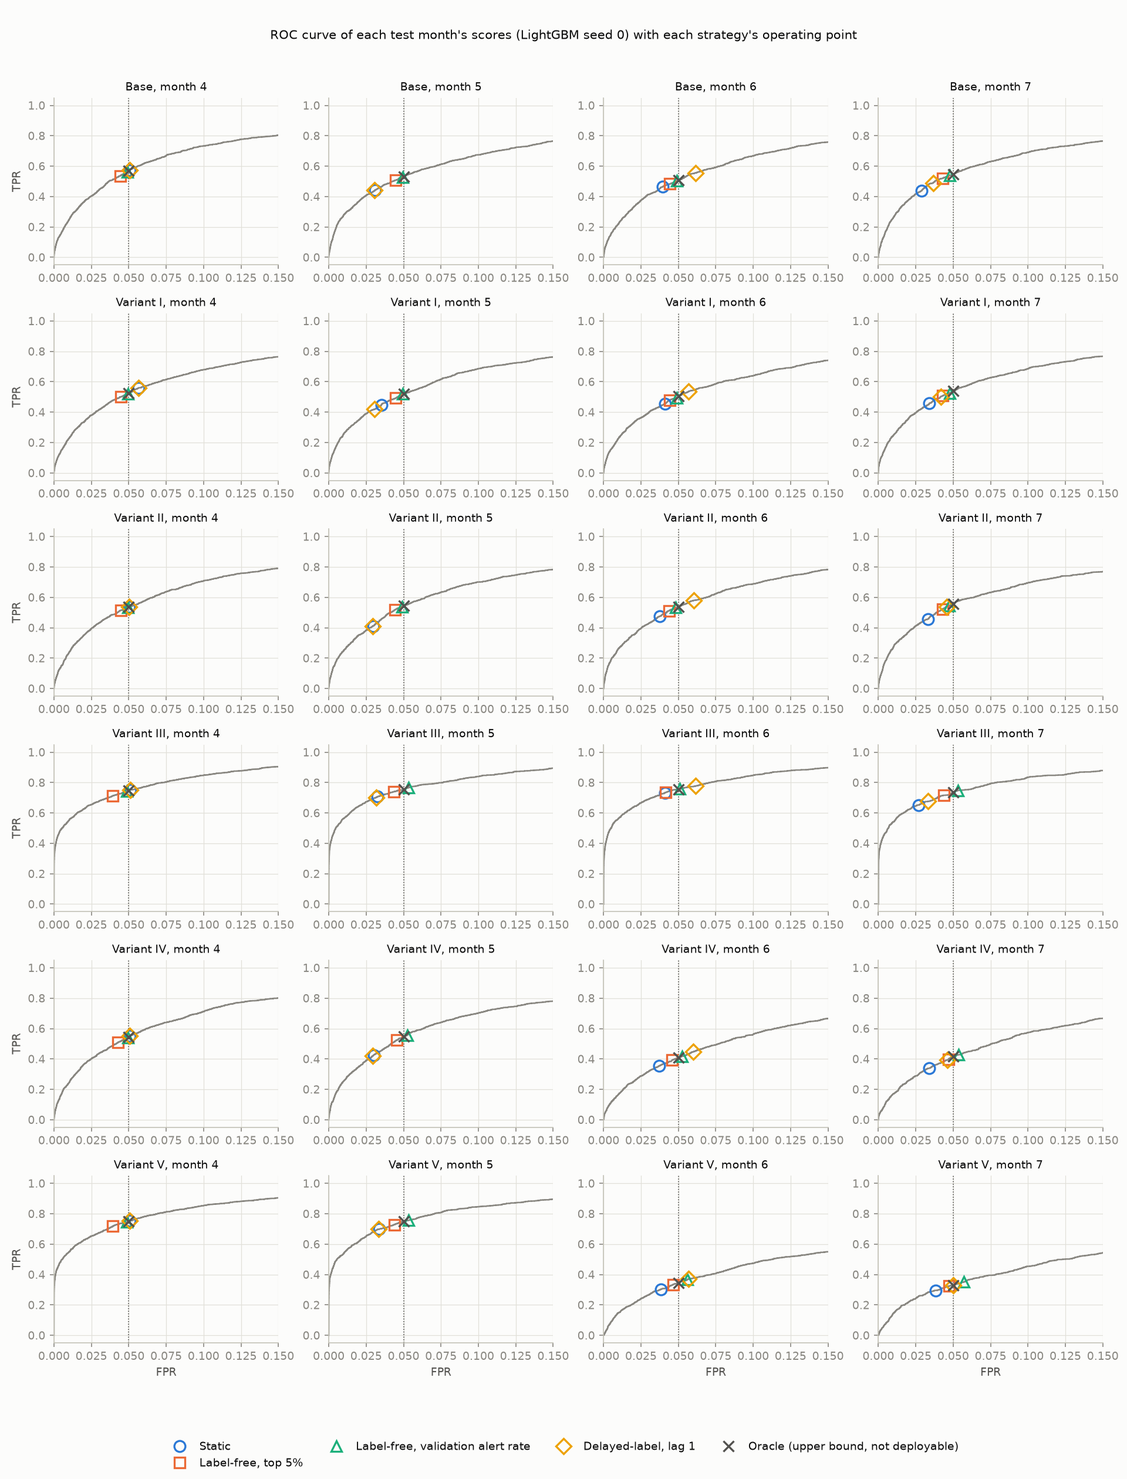
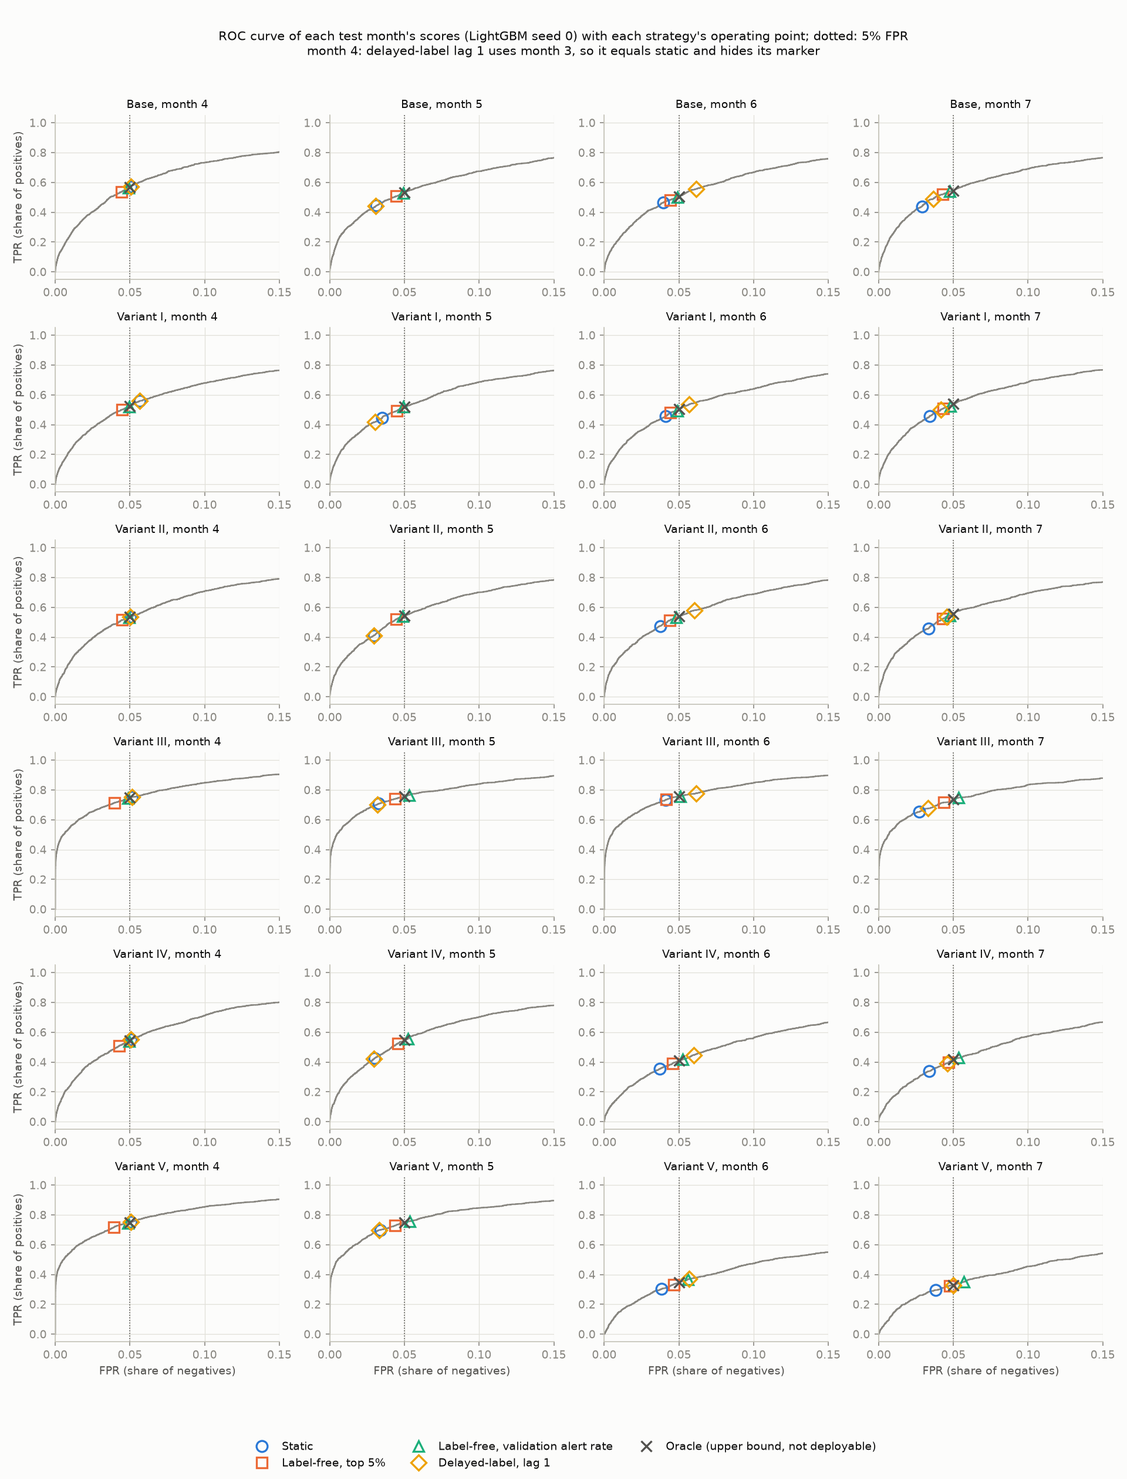
Visual check: by-month figures in a 3-column grid, clearer ROC axes and titles, 'at 5% FPR' after the shuffled TPR
Plotted data dumped before and after: byte-identical for all four figures.
No change under results/ or results_posthoc/. Details in reports/visual_check.md.

diff --git a/src/report_figures.py b/src/report_figures.py
@@ -38,41 +38,86 @@ def _variants(summary):
     return [v for v in VARIANTS if v in set(summary.variant)]
 
 
+NCOL = 3  # variants per row: one row of six panels is too wide to read at page width
+LAG1_NOTE = "month 4: delayed-label lag 1 uses month 3, so it equals static and hides its marker"
+
+
+def _grid(plt, n_variants, rows_per_variant, height):
+    nrow = -(-n_variants // NCOL) * rows_per_variant
+    fig, axes = plt.subplots(nrow, NCOL, figsize=(3.4 * NCOL, height * nrow), sharex=True, squeeze=False)
+    for ax in axes.ravel()[n_variants * rows_per_variant:]:
+        ax.set_visible(False)
+    return fig, axes
+
+
+def _share_y(axes):
+    lo = min(ax.get_ylim()[0] for ax in axes)
+    hi = max(ax.get_ylim()[1] for ax in axes)
+    for ax in axes:
+        ax.set_ylim(lo, hi)
+    for ax in axes:
+        if ax.get_subplotspec().colspan.start > 0:
+            ax.tick_params(labelleft=False)
+
+
+def _legend(fig, ax):
+    h, lab = ax.get_legend_handles_labels()
+    fig.legend(h, lab, loc="lower center", ncol=3)
+
+
 def by_month(summary, ci, metric, ylabel, path, target_line=False, title="", scale=100):
     plt = setup()
     vs = _variants(summary)
-    fig, axes = plt.subplots(1, len(vs), figsize=(3.1 * len(vs), 3.2), sharey=True, squeeze=False)
-    for ax, v in zip(axes[0], vs):
+    fig, axes = _grid(plt, len(vs), 1, 2.7)
+    used = []
+    for k, v in enumerate(vs):
+        ax = axes[k // NCOL, k % NCOL]
+        used.append(ax)
         _panel(ax, summary, ci, v, metric, scale=scale)
         if target_line:
             ax.axhline(100 * PRIMARY_TARGET, color="#52514e", linewidth=0.8, linestyle=":")
         ax.set_title(v, fontsize=9)
-        ax.set_xlabel("test month")
-    axes[0, 0].set_ylabel(ylabel)
-    h, lab = axes[0, 0].get_legend_handles_labels()
-    fig.legend(h, lab, loc="lower center", ncol=len(lab))
+        ax.tick_params(labelbottom=True)
+        if k % NCOL == 0:
+            ax.set_ylabel(ylabel)
+        if k >= len(vs) - NCOL:
+            ax.set_xlabel("test month")
+    _share_y(used)
+    _legend(fig, used[0])
     fig.suptitle(title, fontsize=10)
-    fig.tight_layout(rect=(0, 0.1, 1, 0.93))
+    fig.tight_layout(rect=(0, 0.09, 1, 1))
     fig.savefig(path, dpi=150)
     plt.close(fig)
 
 
 def tpr_with_fpr(summary, ci, path):
+    """Each variant gets a realized FPR panel with its TPR panel directly below it."""
     plt = setup()
     vs = _variants(summary)
-    fig, axes = plt.subplots(2, len(vs), figsize=(3.1 * len(vs), 5.6), sharex=True, sharey="row", squeeze=False)
-    for j, v in enumerate(vs):
-        _panel(axes[0, j], summary, ci, v, "realized_fpr")
-        axes[0, j].axhline(100 * PRIMARY_TARGET, color="#52514e", linewidth=0.8, linestyle=":")
-        _panel(axes[1, j], summary, ci, v, "tpr")
-        axes[0, j].set_title(v, fontsize=9)
-        axes[1, j].set_xlabel("test month")
-    axes[0, 0].set_ylabel("realized FPR, %")
-    axes[1, 0].set_ylabel("TPR, %")
-    h, lab = axes[0, 0].get_legend_handles_labels()
-    fig.legend(h, lab, loc="lower center", ncol=len(lab))
-    fig.suptitle("TPR by month, with the realized FPR it was bought at (LightGBM, seed mean; bars: seed 0 bootstrap 95% CI)", fontsize=10)
-    fig.tight_layout(rect=(0, 0.06, 1, 0.95))
+    fig, axes = _grid(plt, len(vs), 2, 2.4)
+    fpr_axes, tpr_axes = [], []
+    for k, v in enumerate(vs):
+        r, c = 2 * (k // NCOL), k % NCOL
+        top, bottom = axes[r, c], axes[r + 1, c]
+        fpr_axes.append(top)
+        tpr_axes.append(bottom)
+        _panel(top, summary, ci, v, "realized_fpr")
+        top.axhline(100 * PRIMARY_TARGET, color="#52514e", linewidth=0.8, linestyle=":")
+        _panel(bottom, summary, ci, v, "tpr")
+        top.set_title(v, fontsize=9)
+        bottom.tick_params(labelbottom=True)
+        if c == 0:
+            top.set_ylabel("realized FPR, %")
+            bottom.set_ylabel("TPR, %")
+        if k >= len(vs) - NCOL:
+            bottom.set_xlabel("test month")
+    _share_y(fpr_axes)
+    _share_y(tpr_axes)
+    _legend(fig, fpr_axes[0])
+    fig.suptitle("TPR by month (lower panel), with the realized FPR it was bought at (upper panel)\n"
+                 "LightGBM, seed mean; bars: seed 0 bootstrap 95% CI, often shorter than the marker; dotted: 5% target\n"
+                 + LAG1_NOTE, fontsize=9)
+    fig.tight_layout(rect=(0, 0.05, 1, 1))
     fig.savefig(path, dpi=150)
     plt.close(fig)
 
@@ -88,7 +133,7 @@ def roc_points(metrics, path):
             curves[(v, month)] = (z["score"][k], z["label"][k])
         for r in m[m.variant == v].itertuples():
             points[(v, r.month, r.strategy)] = r.threshold
-    return plot_roc_operating_points(curves, points, path, title="ROC curve of each test month's scores (LightGBM seed 0) with each strategy's operating point")
+    return plot_roc_operating_points(curves, points, path, title="ROC curve of each test month's scores (LightGBM seed 0) with each strategy's operating point; dotted: 5% FPR\n" + LAG1_NOTE)
 
 
 def main():
@@ -96,11 +141,13 @@ def main():
     ci = _sel(pd.read_csv(config.RESULTS / "ci.csv"))
     metrics = pd.read_csv(config.RESULTS / "metrics.csv")
     config.FIGURES.mkdir(parents=True, exist_ok=True)
-    note = "(LightGBM, seed mean; bars: seed 0 bootstrap 95% CI; dotted: 5% target)"
-    by_month(summary, ci, "realized_fpr", "realized FPR, %", config.FIGURES / "realized_fpr_by_month.png", True, f"Realized FPR by test month {note}")
+    note = "LightGBM, seed mean; bars: seed 0 bootstrap 95% CI, often shorter than the marker"
+    by_month(summary, ci, "realized_fpr", "realized FPR, %", config.FIGURES / "realized_fpr_by_month.png", True,
+             f"Realized FPR by test month (dotted: 5% target)\n{note}\n{LAG1_NOTE}")
     tpr_with_fpr(summary, ci, config.FIGURES / "tpr_by_month.png")
     by_month(summary, ci, "fpr_ratio", "FPR ratio (lowest / highest)", config.FIGURES / "fpr_ratio_by_month.png", False,
-             "Age-group FPR ratio by test month (LightGBM, seed mean; bars: seed 0 bootstrap 95% CI)", scale=1)
+             f"Age-group FPR ratio by test month (older group: customer_age {PRIMARY_AGE.replace('>=', '>= ')}; 1 means equal group FPRs)\n{note}\n{LAG1_NOTE}",
+             scale=1)
     roc_points(metrics, config.FIGURES / "roc_operating_points.png")
     print(f"wrote figures to {config.FIGURES}")
 

diff --git a/src/figures.py b/src/figures.py
@@ -1,6 +1,7 @@
 """Figures built from saved predictions and thresholds."""
 
 import numpy as np
+from matplotlib.ticker import MultipleLocator
 from sklearn.metrics import roc_curve
 
 from src.metrics import confusion, rates
@@ -42,18 +43,19 @@ def plot_roc_operating_points(curves, points, path, max_fpr=0.15, title=None):
                         markeredgecolor=color, markeredgewidth=1.6, markersize=9, label=LABELS.get(strategy, strategy))
             panel_points = [xy[0] for (v, m, _), xy in coords.items() if (v, m) == (variant, month)]
             ax.set_xlim(0, max([max_fpr] + [1.1 * x for x in panel_points]))
+            ax.xaxis.set_major_locator(MultipleLocator(0.05))
             ax.set_title(f"{variant}, month {month}", fontsize=9)
             if i == len(variants) - 1:
-                ax.set_xlabel("FPR")
+                ax.set_xlabel("FPR (share of negatives)")
             if j == 0:
-                ax.set_ylabel("TPR")
+                ax.set_ylabel("TPR (share of positives)")
     handles, labels = [], []
     for ax in axes.ravel():
         for h, lab in zip(*ax.get_legend_handles_labels()):
             if lab not in labels:
                 handles.append(h)
                 labels.append(lab)
-    fig.legend(handles, labels, loc="lower center", ncol=min(len(labels), 4))
+    fig.legend(handles, labels, loc="lower center", ncol=min(len(labels), 3))
     if title:
         fig.suptitle(title, fontsize=10)
     fig.tight_layout(rect=(0, 0.06, 1, 0.97 if title else 1))

diff --git a/reports/visual_check.md b/reports/visual_check.md
@@ -1,0 +1,21 @@
+# Visual check of figures and the one-page PDF
+
+Done 2026-10-18. Every file in figures/ and reports/one_pager.pdf was rendered to an image and inspected. Checks: legibility at page width, axis labels and units, the oracle labelled as an upper bound wherever it appears, no TPR without its realized FPR, and the PDF on one page with nothing cut off.
+
+## Findings and fixes
+
+| File | Problem found | Fix |
+|---|---|---|
+| realized_fpr_by_month.png, fpr_ratio_by_month.png | Six panels in one row, 18.6 inches wide. At page width the 9 pt text shrinks to about a third and is unreadable. | Three columns, two rows (src/report_figures.py). |
+| tpr_by_month.png | Same width problem, 2 by 6 panels. | Three columns; each variant has its realized FPR panel directly above its TPR panel; shared y scale per metric. |
+| all three by-month figures | In month 4, delayed-label lag 1 uses month 3 and equals static, so its diamond hides the static circle; a reader can think static is missing. Bootstrap bars are mostly shorter than the markers, which the title did not say. | Both stated in the figure title. |
+| fpr_ratio_by_month.png | Title did not say which age definition, or which direction is fair. | Title names `customer_age >= 50` and says 1 means equal group FPRs. |
+| roc_operating_points.png | Seven crowded x tick labels (0.000 to 0.150); axes "FPR" and "TPR" without units, while the other figures use percent; legend wrapped one entry onto its own line. | Ticks every 0.05; axes say "share of negatives" and "share of positives"; legend in three columns; title notes the dotted 5% line and the month 4 overlap. |
+| reports/one_pager.pdf | One letter page, all 550 words of reports/one_pager.md present, nothing cut off. The oracle is labelled "an upper bound, not deployable". The shuffled-label sentence gave "pooled TPR 0.117" without its FPR. | Changed to "pooled TPR 0.117 at 5% FPR" in docs/one_pager.template.md, and the same words in the README and call-prep templates; rendered with `make tables`, PDF rebuilt with `make pdf`, still one page. |
+| synthetic_mechanism.png | No problem found: realized FPR row above the TPR row, oracle labelled, "Synthetic, not BAF" in the title, units in percent. | None. |
+
+The oracle is labelled "Oracle (upper bound, not deployable)" in every figure legend, and every figure that shows TPR shows realized FPR beside it (the TPR figure in the panel above, the ROC figure on the x axis).
+
+## Numbers unchanged
+
+Before editing, the plotting code was run with `savefig` patched to dump every plotted series (line x and y values, error-bar segments, labels, colours) to JSON; that run reproduced the committed PNGs byte for byte. After the edits the same dump was taken. The JSON files of all four regenerated figures are byte-identical before and after, so only layout and labels changed. `git status` shows no change under results/ or results_posthoc/, and `make check` passes. RESULTS.md and RESULTS_POSTHOC.md are byte-identical after `make tables`; README.md, reports/one_pager.md and prep/call_questions.md differ only by the added words "at 5% FPR".

diff --git a/docs/one_pager.template.md b/docs/one_pager.template.md
@@ -10,4 +10,4 @@ Finding 2: the label-free results are largely arithmetic at this prevalence. Mat
 
 Finding 3: recalibrating a global threshold moves the age-group FPR ratio much less than the variant does. Across global-threshold strategies the ratio differs by at most {{value:derived/ratio_spread_across_strategies/max|f3}} in any variant-month. In Variant IV it stays between {{value:derived/Variant IV/ratio_global/min|f3}} and {{value:derived/Variant IV/ratio_global/max|f3}} before and after the prevalence disparity is removed, and in months 6 and 7 older applicants get about {{value:derived/Variant IV/label_free_top/alert_share_old_m67/max|pct0}}% of label-free top 5% alerts at {{value:derived/Variant IV/application_share_old_m67/max|pct0}}% of applications. Group-wise thresholds (exploratory, using age) give ratios of {{value:derived/groupwise/ratio/min|f3}} to {{value:derived/groupwise/ratio/max|f3}}.
 
-Limits. The shuffled-label check failed its declared tolerance (pooled TPR {{value:check/shuffled/4-7 pooled/oracle_tpr|f3}} against 0.05 plus or minus 0.02); no leak was found and the median of 20 repeat shuffles was inside the tolerance, but the cause is not established; it stays a caveat. BAF is synthetic: per the datasheet (answers A6, p1, and A14, p4) and the Kaggle page, it was sampled from a CTGAN trained on noise-perturbed bank data, so month-to-month shifts may reflect the generator rather than applicant behaviour. One main split, no retraining in the main study; no single feature among the ten most important explains the static miss. The contribution is a measurement on BAF and a month-by-month strategy comparison by budget miss, not the observation that thresholds drift.
+Limits. The shuffled-label check failed its declared tolerance (pooled TPR {{value:check/shuffled/4-7 pooled/oracle_tpr|f3}} at 5% FPR, against 0.05 plus or minus 0.02); no leak was found and the median of 20 repeat shuffles was inside the tolerance, but the cause is not established; it stays a caveat. BAF is synthetic: per the datasheet (answers A6, p1, and A14, p4) and the Kaggle page, it was sampled from a CTGAN trained on noise-perturbed bank data, so month-to-month shifts may reflect the generator rather than applicant behaviour. One main split, no retraining in the main study; no single feature among the ten most important explains the static miss. The contribution is a measurement on BAF and a month-by-month strategy comparison by budget miss, not the observation that thresholds drift.

diff --git a/docs/README.template.md b/docs/README.template.md
@@ -1,6 +1,6 @@
 # Threshold drift on the BAF dataset suite
 On the BAF suite (six variants from one generator), a LightGBM threshold set once at 5% FPR misses its budget in months 5 to 7, and the direction depends on the validation month: set on month 3 it under-spends by {{value:derived/static/miss_m567/max|apt2}} to {{value:derived/static/miss_m567/min|apt2}} points of FPR (seed 0 95% intervals {{value:main/static_ci_width_m567/min|apt2}} to {{value:main/static_ci_width_m567/max|apt2}} points wide), and post hoc, trained on months 0 and 1 and set on month 2, it over-spends.
-Biggest caveat: the shuffled-label sanity check failed its declared tolerance (pooled TPR {{value:check/shuffled/4-7 pooled/oracle_tpr|f3}} against 0.05 plus or minus 0.02) with no leak found and the cause not established, and BAF is synthetic, so month-to-month shifts may reflect the generator rather than applicant behaviour.
+Biggest caveat: the shuffled-label sanity check failed its declared tolerance (pooled TPR {{value:check/shuffled/4-7 pooled/oracle_tpr|f3}} at 5% FPR, against 0.05 plus or minus 0.02) with no leak found and the cause not established, and BAF is synthetic, so month-to-month shifts may reflect the generator rather than applicant behaviour.
 
 This is a small study on Feedzai's public Bank Account Fraud suite (Jesus et al., NeurIPS 2022, arXiv 2211.13358). It asks how far realized FPR, TPR and alert volume drift after a threshold is set once at 5% FPR, how unevenly that falls across age groups, and which recalibration strategy keeps the alert budget on target: static, label-free (top 5% of each month, or the validation month's alert rate), delayed-label (lags 1 to 3) and an oracle that is an upper bound, not deployable. With the threshold month at 3, re-targeting to the validation month's alert rate stays within 0.5 points of 5% in {{value:derived/label_free_val_rate/absmiss_all/n_within_0.5pt|int}} of {{value:derived/label_free_val_rate/absmiss_all/n_cells|int}} variant-months, and the global-threshold strategies differ in age-group FPR ratio by at most {{value:derived/ratio_spread_across_strategies/max|f3}} in any variant-month. RESULTS.md opens with an amendment that corrects the original "under-spends" claim.
 

diff --git a/docs/call_questions.template.md b/docs/call_questions.template.md
@@ -8,7 +8,7 @@ A strong answer says that the paper's operating point is the oracle here, on poo
 
 ## 2. Your shuffled-label check failed. Why trust any number?
 
-It must concede the failure plainly: pooled TPR {{value:check/shuffled/4-7 pooled/oracle_tpr|f3}} against the declared 0.05 plus or minus 0.02, with the criterion not redefined. Then the evidence against a leak: 20 shuffles give a LightGBM median of {{value:diag/shuffles/lightgbm/median|f3}} (the original was the maximum) and a logistic regression range of {{value:diag/shuffles/logreg/min|f3}} to {{value:diag/shuffles/logreg/max|f3}}; a label-free density score alone reaches {{value:diag/shuffles/lightgbm/density_score_tpr_at_5pct_fpr|f3}}; the leak audit flags {{value:diag/leak_audit/n_flagged|int}} features; a unit test confirms that every fit uses training months only; and an independent recomputation matched every stored metric. The honest conclusion is that a wrong null (fraud applications are atypical) is one possible explanation, not established, since the median shuffle was inside the tolerance; the check did not pass.
+It must concede the failure plainly: pooled TPR {{value:check/shuffled/4-7 pooled/oracle_tpr|f3}} at 5% FPR against the declared 0.05 plus or minus 0.02, with the criterion not redefined. Then the evidence against a leak: 20 shuffles give a LightGBM median of {{value:diag/shuffles/lightgbm/median|f3}} (the original was the maximum) and a logistic regression range of {{value:diag/shuffles/logreg/min|f3}} to {{value:diag/shuffles/logreg/max|f3}}; a label-free density score alone reaches {{value:diag/shuffles/lightgbm/density_score_tpr_at_5pct_fpr|f3}}; the leak audit flags {{value:diag/leak_audit/n_flagged|int}} features; a unit test confirms that every fit uses training months only; and an independent recomputation matched every stored metric. The honest conclusion is that a wrong null (fraud applications are atypical) is one possible explanation, not established, since the median shuffle was inside the tolerance; the check did not pass.
 
 ## 3. Is the static under-spend real, or an artefact of month 3?
 

diff --git a/reports/one_pager.md b/reports/one_pager.md
@@ -10,4 +10,4 @@ Finding 2: the label-free results are largely arithmetic at this prevalence. Mat
 
 Finding 3: recalibrating a global threshold moves the age-group FPR ratio much less than the variant does. Across global-threshold strategies the ratio differs by at most 0.094 in any variant-month. In Variant IV it stays between 0.081 and 0.125 before and after the prevalence disparity is removed, and in months 6 and 7 older applicants get about 89% of label-free top 5% alerts at 51% of applications. Group-wise thresholds (exploratory, using age) give ratios of 0.547 to 0.998.
 
-Limits. The shuffled-label check failed its declared tolerance (pooled TPR 0.117 against 0.05 plus or minus 0.02); no leak was found and the median of 20 repeat shuffles was inside the tolerance, but the cause is not established; it stays a caveat. BAF is synthetic: per the datasheet (answers A6, p1, and A14, p4) and the Kaggle page, it was sampled from a CTGAN trained on noise-perturbed bank data, so month-to-month shifts may reflect the generator rather than applicant behaviour. One main split, no retraining in the main study; no single feature among the ten most important explains the static miss. The contribution is a measurement on BAF and a month-by-month strategy comparison by budget miss, not the observation that thresholds drift.
+Limits. The shuffled-label check failed its declared tolerance (pooled TPR 0.117 at 5% FPR, against 0.05 plus or minus 0.02); no leak was found and the median of 20 repeat shuffles was inside the tolerance, but the cause is not established; it stays a caveat. BAF is synthetic: per the datasheet (answers A6, p1, and A14, p4) and the Kaggle page, it was sampled from a CTGAN trained on noise-perturbed bank data, so month-to-month shifts may reflect the generator rather than applicant behaviour. One main split, no retraining in the main study; no single feature among the ten most important explains the static miss. The contribution is a measurement on BAF and a month-by-month strategy comparison by budget miss, not the observation that thresholds drift.

diff --git a/README.md b/README.md
@@ -1,6 +1,6 @@
 # Threshold drift on the BAF dataset suite
 On the BAF suite (six variants from one generator), a LightGBM threshold set once at 5% FPR misses its budget in months 5 to 7, and the direction depends on the validation month: set on month 3 it under-spends by 0.87 to 2.32 points of FPR (seed 0 95% intervals 0.23 to 0.32 points wide), and post hoc, trained on months 0 and 1 and set on month 2, it over-spends.
-Biggest caveat: the shuffled-label sanity check failed its declared tolerance (pooled TPR 0.117 against 0.05 plus or minus 0.02) with no leak found and the cause not established, and BAF is synthetic, so month-to-month shifts may reflect the generator rather than applicant behaviour.
+Biggest caveat: the shuffled-label sanity check failed its declared tolerance (pooled TPR 0.117 at 5% FPR, against 0.05 plus or minus 0.02) with no leak found and the cause not established, and BAF is synthetic, so month-to-month shifts may reflect the generator rather than applicant behaviour.
 
 This is a small study on Feedzai's public Bank Account Fraud suite (Jesus et al., NeurIPS 2022, arXiv 2211.13358). It asks how far realized FPR, TPR and alert volume drift after a threshold is set once at 5% FPR, how unevenly that falls across age groups, and which recalibration strategy keeps the alert budget on target: static, label-free (top 5% of each month, or the validation month's alert rate), delayed-label (lags 1 to 3) and an oracle that is an upper bound, not deployable. With the threshold month at 3, re-targeting to the validation month's alert rate stays within 0.5 points of 5% in 22 of 24 variant-months, and the global-threshold strategies differ in age-group FPR ratio by at most 0.094 in any variant-month. RESULTS.md opens with an amendment that corrects the original "under-spends" claim.
 

diff --git a/prep/call_questions.md b/prep/call_questions.md
@@ -8,7 +8,7 @@ A strong answer says that the paper's operating point is the oracle here, on poo
 
 ## 2. Your shuffled-label check failed. Why trust any number?
 
-It must concede the failure plainly: pooled TPR 0.117 against the declared 0.05 plus or minus 0.02, with the criterion not redefined. Then the evidence against a leak: 20 shuffles give a LightGBM median of 0.059 (the original was the maximum) and a logistic regression range of 0.026 to 0.069; a label-free density score alone reaches 0.083; the leak audit flags 0 features; a unit test confirms that every fit uses training months only; and an independent recomputation matched every stored metric. The honest conclusion is that a wrong null (fraud applications are atypical) is one possible explanation, not established, since the median shuffle was inside the tolerance; the check did not pass.
+It must concede the failure plainly: pooled TPR 0.117 at 5% FPR against the declared 0.05 plus or minus 0.02, with the criterion not redefined. Then the evidence against a leak: 20 shuffles give a LightGBM median of 0.059 (the original was the maximum) and a logistic regression range of 0.026 to 0.069; a label-free density score alone reaches 0.083; the leak audit flags 0 features; a unit test confirms that every fit uses training months only; and an independent recomputation matched every stored metric. The honest conclusion is that a wrong null (fraud applications are atypical) is one possible explanation, not established, since the median shuffle was inside the tolerance; the check did not pass.
 
 ## 3. Is the static under-spend real, or an artefact of month 3?
 
